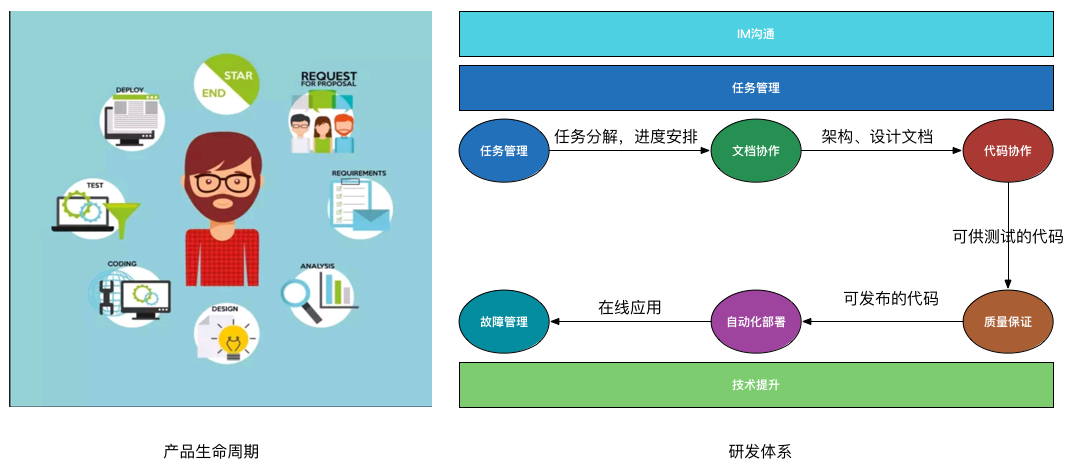
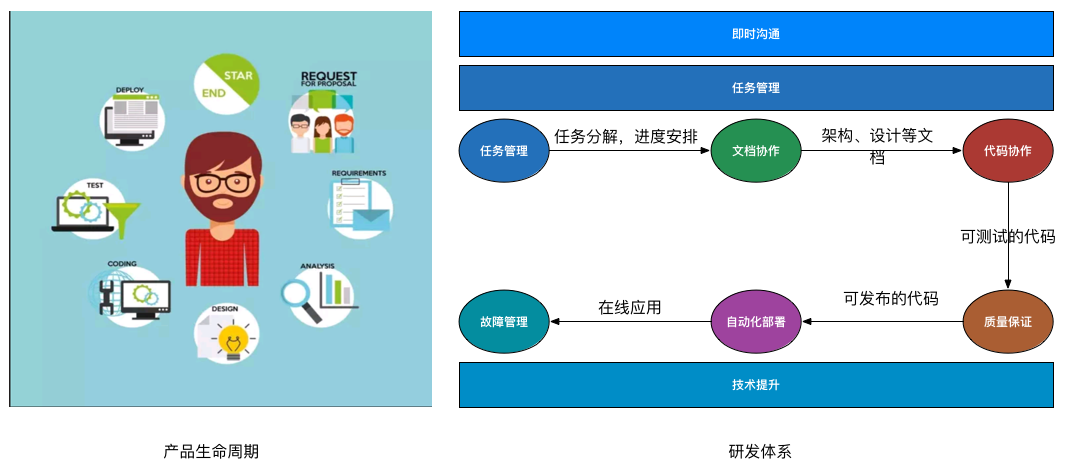
Site updated at 2016-08-19 07:29:11 UTC

diff --git a/blog/2016/08/17/dev-manage/index.html b/blog/2016/08/17/dev-manage/index.html
@@ -476,7 +476,7 @@
 
 <h2><a name='即时沟通'></a>即时沟通</h2>
 
-<p>显而易见，即时沟通是任何团队都必不可少的一个机制，同样也是研发团队必不可缺的。常用的就是QQ、钉钉或者企业内部的im软件。那么对于小公司或者创业公司，不想用第三方服务的该怎么办呢？之前蘑菇街开源过一个teamtalk的软件，不过后来由于某些原因已经下线。目前，有一款开源的web im软件可以供大家选择：<a href="https://github.com/RocketChat/Rocket.Chat">Rocket.Chat</a>，能够搭建出内网的slack服务(将分散的沟通方式聚集到一个地方。融入到一个信息流中)。</p>
+<p>显而易见，即时沟通是任何团队都必不可少的一个机制，同样也是研发团队必不可缺的。常用的就是QQ、钉钉或者企业内部的im软件。那么对于小公司或者创业公司，不想用第三方服务的该怎么办呢？之前蘑菇街开源过一个teamtalk的软件，不过后来由于某些原因已经下线。目前，有一款开源的web im软件可以供大家选择：<a href="https://github.com/RocketChat/Rocket.Chat">Rocket.Chat</a>，能够搭建出内网的slack服务(将分散的沟通方式聚集到一个地方，融入到一个信息流中)。</p>
 
 <p>此外，我自己还尝试过使用intellij自带的IDE TALK来进行研发团队的在线交流。使用这个比较好的一点是可以直接做基于代码的即时交流，比如能够发送一个代码片段给同事，他那边接收到之后是直接能在他的项目里相关代码处进行操作的。</p>
 
